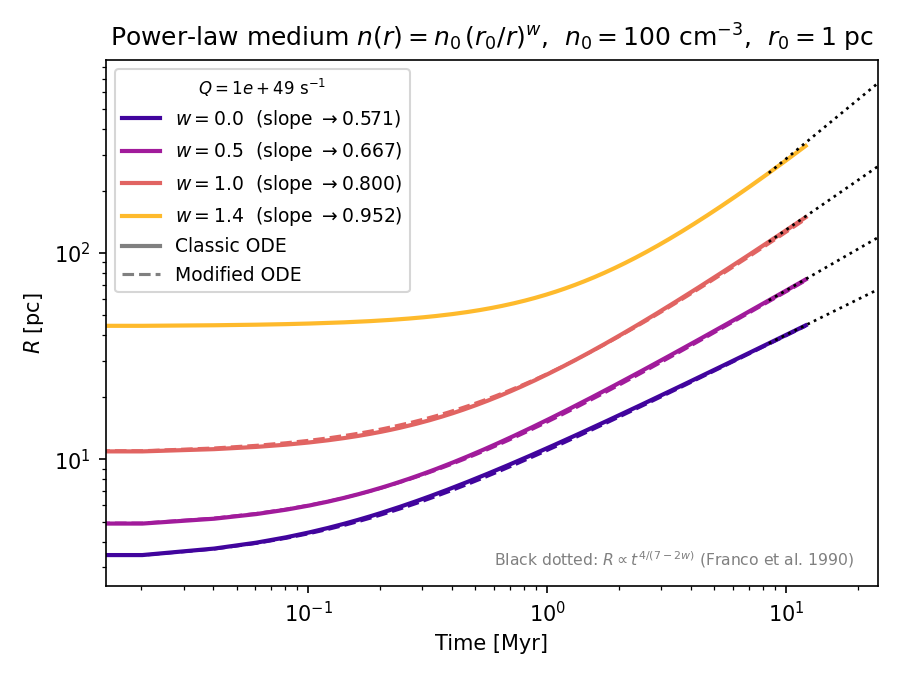
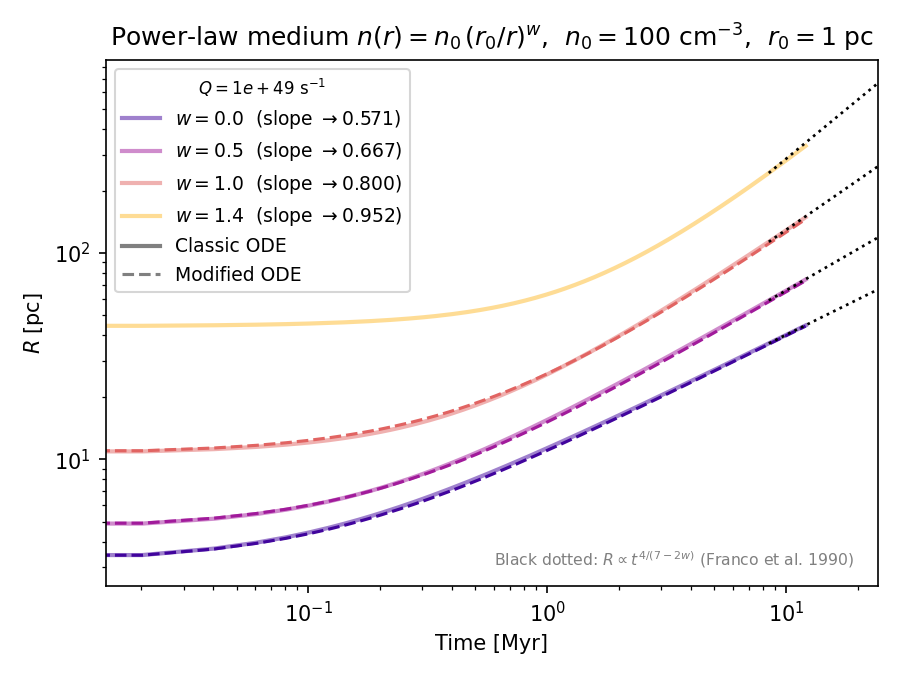
Refine figures: transparency, M_sh ylim, remove stale python/ PNGs
- Figs 2 & 3: classic ODE lines alpha=0.5 so modified solution is visible
- Fig 4: M_sh lower y-limit set to 1 Msun
- Remove stale *.png outputs from python/ (figures/ is canonical)

diff --git a/python/plot_classic_vs_modified.py b/python/plot_classic_vs_modified.py
@@ -98,8 +98,8 @@ ax.set_ylabel(r"$M_{\rm sh}\;[M_\odot]$")
 ax.set_xlabel("Time [Myr]")
 ax.legend(fontsize=8, loc="upper left")
 # tighten y-limits to the data range (skip seed-mass transient at t=0)
-_all_msh = np.concatenate([sol_classic.y[2], sol_modified.y[2]]) / M_SUN
-ax.set_ylim(_all_msh[_all_msh > 0].min() * 0.5, _all_msh.max() * 2.0)
+_msh_max = max(sol_classic.y[2].max(), sol_modified.y[2].max()) / M_SUN
+ax.set_ylim(1.0, _msh_max * 2.0)
 
 for ax in axes:
     ax.grid(True, which="both", alpha=0.3, lw=0.5)

diff --git a/python/plot_cored_profile.py b/python/plot_cored_profile.py
@@ -88,7 +88,7 @@ for col, r0 in enumerate(R0_VALUES):
             raise
         t_Myr = sol.t / MYR
         R_pc = sol.y[0] / PC
-        ax_R.loglog(t_Myr, R_pc, color=color, lw=2.0, label=lbl)
+        ax_R.loglog(t_Myr, R_pc, color=color, lw=2.0, alpha=0.5, label=lbl)
         try:
             sol_mod = hii.evolve_modified((0.0, t_end), n_eval=600, rtol=1e-8)
             ax_R.loglog(sol_mod.t / MYR, sol_mod.y[0] / PC, color=color, lw=1.5, ls="--")

diff --git a/python/plot_powerlaw.py b/python/plot_powerlaw.py
@@ -73,7 +73,7 @@ for w, color in zip(W_VALUES, colors):
 
     slope = 4.0 / (7.0 - 2.0 * w)   # Franco et al. (1990)
     lbl = rf"$w={w}$  (slope $\to {slope:.3f}$)"
-    ax.loglog(t_Myr, R_pc, color=color, lw=2.0, label=lbl)
+    ax.loglog(t_Myr, R_pc, color=color, lw=2.0, alpha=0.5, label=lbl)
 
     solutions.append((t_Myr, R_pc, slope))
 
